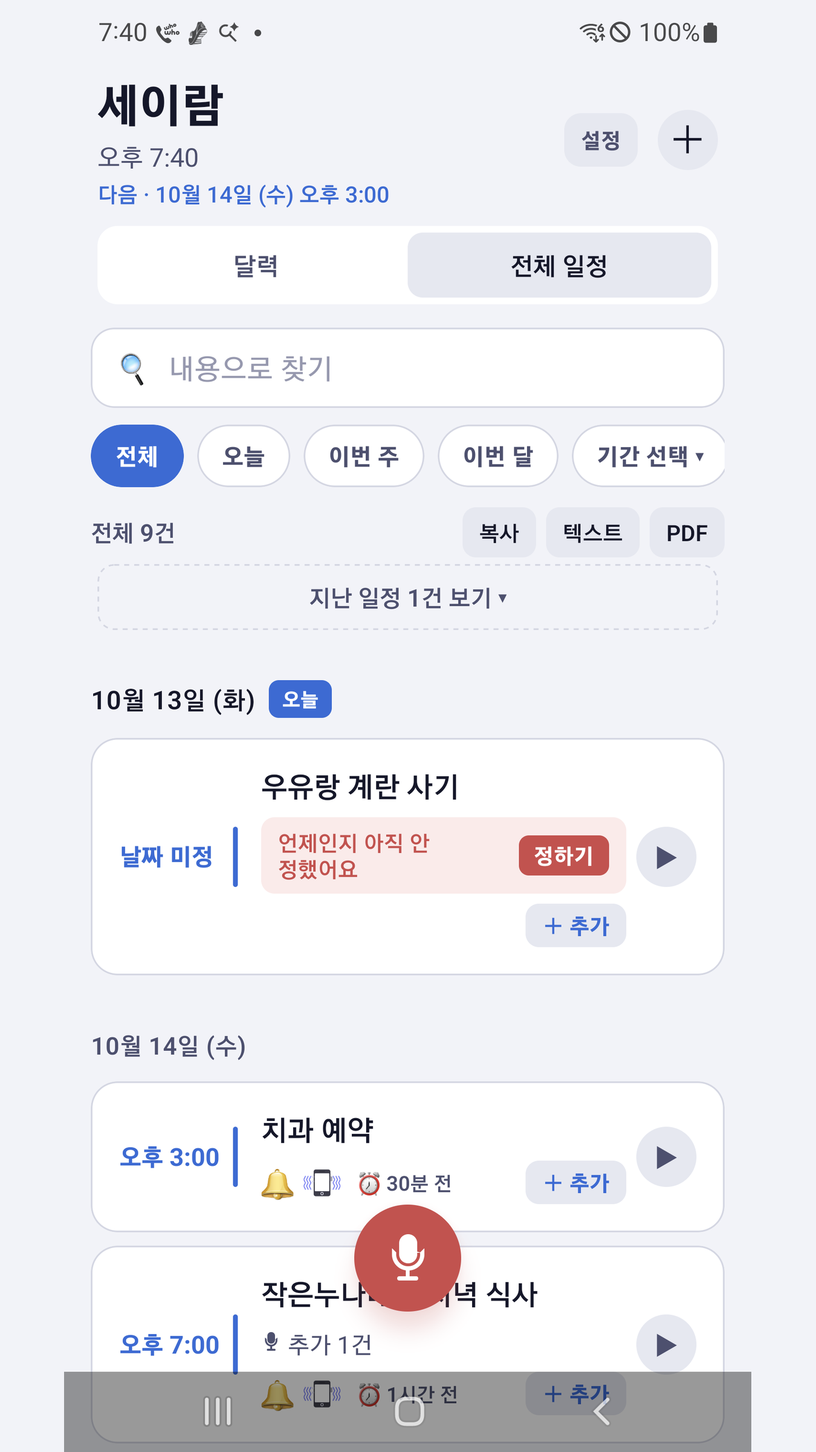
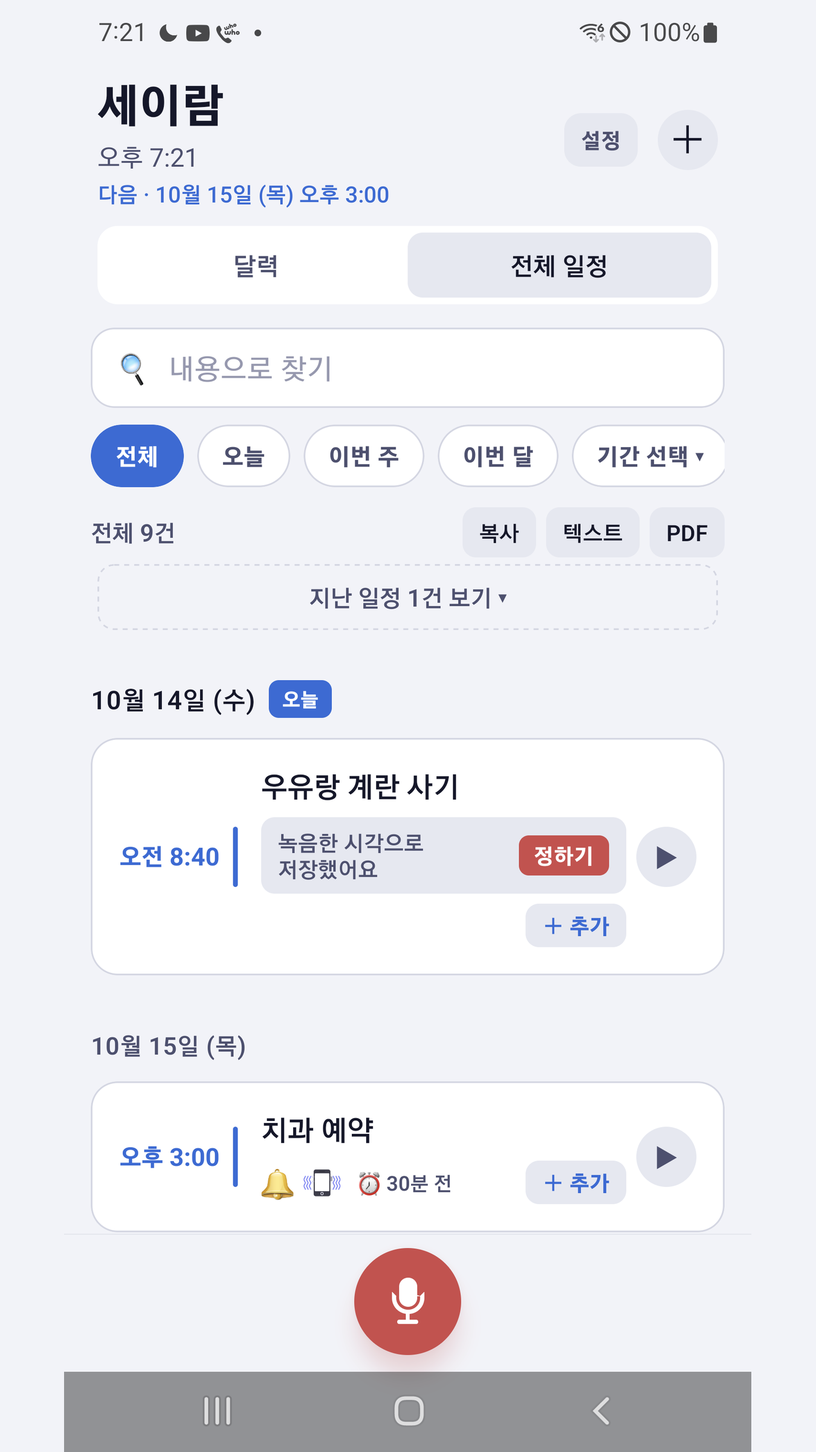
docs: Play 자료 갱신 — 스크린샷 8장 재촬영, 등록 문구 9개 언어(녹음 시각 저장·글 읽어 주기)
- 스크린샷: 말하기 막대, 녹음 시각으로 저장된 메모 카드, 목록 아래 마이크 영역 반영
- 등록 문구 9개 언어: 날짜 없이 말한 녹음 문단, 녹음 없는 일정 읽어 주기 문장 추가(모두 4,000자 이하)
- 콘솔 안내: 스크린샷 표·재촬영 방법(sayram_samples2)·10-14 기기 확인 현황

diff --git a/docs/PLAY_CONSOLE_GUIDE.md b/docs/PLAY_CONSOLE_GUIDE.md
@@ -144,14 +144,14 @@ cd android && ./gradlew bundleRelease
 
 ### 스크린샷 (9장 중 최대 8장 선택)
 
-2026-10-13 저녁, 최종 화면으로 9장 모두 다시 찍었습니다.
+2026-10-14 저녁, 최종 화면(말하기 막대, 녹음 시각으로 저장된 메모 카드, 목록 아래 마이크 영역)으로 다시 찍었습니다. 02만 10-13 촬영본입니다.
 
 | 파일 | 내용 |
 |---|---|
-| 01_list | 일정 목록(날짜 미정 메모, 알람·미리 알림 표시) |
+| 01_list | 일정 목록(녹음 시각으로 저장된 메모, 알람·미리 알림, 하루 전 알림 줄) |
 | 02_speaking | 말하는 중: "10분 전에 알려 줘"까지 인식 |
 | 03_detail_replay | 상세: 단어 구간 다시 듣기 |
-| 04_editor | 수정: 날짜·시간 휠·알람 방식·미리 알림 |
+| 04_editor | 수정: 날짜·시간 휠·알림, "눌러서 말하기", "▶ 녹음 듣기" |
 | 05_calendar_week | 주 보기 달력 |
 | 06_all_search | 전체 일정: 검색·기간·내보내기 |
 | 07_settings | 설정: 테마·글자 크기·9개 언어 |
@@ -161,7 +161,7 @@ cd android && ./gradlew bundleRelease
 - 권장 순서: 02 → 01 → 03 → 05 → 04 → 06 → 09 → 08 (07은 빼도 됩니다).
 - Play는 세로가 가로의 2배를 넘으면 거부하므로 원본 양옆에 여백을 붙여 9:16으로 만들었습니다. 내용은 자르지 않았습니다.
 - 홍보 배너는 목록 맨 아래에 있어 스크린샷에는 나오지 않습니다.
-- 다시 찍는 법: 노트의 `Download/sayram_samples` 폴더(예시 일정 9건)를 설정 › 백업 › 폴더에서 가져오기로 넣고 촬영합니다. 예시 일정의 날짜가 지나 있으면 `records.json`의 날짜를 옮겨야 합니다. 촬영 뒤에는 앱 데이터를 초기화해 예시 알람이 울리지 않게 합니다.
+- 다시 찍는 법: 노트의 `Download/sayram_samples2` 폴더(예시 일정 9건)를 설정 › 백업 › 폴더에서 가져오기로 넣고 촬영합니다. 예시 일정의 날짜가 지나 있으면 `records.json`의 날짜를 옮겨야 합니다. 촬영 뒤에는 앱 데이터를 초기화해 예시 알람이 울리지 않게 합니다.
 
 ## 9. 출시 노트
 
@@ -189,6 +189,9 @@ cd android && ./gradlew bundleRelease
 - [x] 백업 폴더에서 가져오기 (노트)
 - [x] 최종 빌드 권한 목록에 INTERNET 없음
 - [x] 9개 언어 문구 누락 0 (자동 테스트 `lib/__tests__/i18nParity.test.ts`)
+- [x] (10-14) 글 읽어 주기: 32에서 삼성 음성 엔진으로 한국어 읽기, 끝나면 ▶ 복귀
+- [x] (10-14) 말하기 막대 시작·완료, 수정 화면 ▶ 녹음 듣기, 분 휠(32분 등 5분 단위 아닌 값) 굴림 일치, 마이크 버튼이 카드를 가리지 않음 — 32
+- [ ] 아이폰에서 무음 스위치를 켠 상태·수화기 선택 후 글 읽어 주기 — 기기 확인 필요
 - [ ] 미니(iPad): 실행·화면 표시만 확인. 화면을 직접 눌러 보는 확인은 사람이 해야 함
 - [ ] 홍보 배너를 눌러 유튜브·Play 스토어가 열리는지, 후원 화면의 계좌번호 복사 — **기기 미검증**(화면에 보이는 것만 확인)
 - [ ] 폴더로 내보내기 → 다른 기기에서 가져오기 왕복

diff --git a/store-assets/listing-fr.md b/store-assets/listing-fr.md
@@ -24,8 +24,8 @@ Essayez « dîner entre amis vendredi prochain à 19h », « réunion d'équipe 
 • Vous voulez une appli légère, utilisable tout de suite, sans inscription
 
 🔁 Réécoutez exactement ce que vous avez dit
-Chaque événement conserve son enregistrement. Touchez ▶ sur une carte pour entendre votre propre voix, ou ouvrez l'écran de détail et touchez un mot pour ne réécouter que ce passage. Faites un appui long puis glissez sur les mots pour lire en boucle la partie dont vous avez besoin.
-(La conservation des enregistrements et la relecture mot par mot nécessitent Android 13 ou version ultérieure. Sur Android 12 et versions antérieures, vos paroles sont enregistrées sous forme de texte ; les événements et les alarmes fonctionnent de la même façon.)
+Chaque événement garde son enregistrement : ▶ sur une carte fait entendre votre voix, un mot touché dans le détail rejoue ce passage, un appui long glissé sur les mots lit une partie en boucle.
+(Enregistrements et relecture mot par mot : Android 13 ou ultérieur ; sur Android 12 et antérieur, vos paroles sont gardées en texte, alarmes incluses. Sans enregistrement (saisie au clavier ou Android 12 et antérieur), ▶ fait lire date, heure et contenu par la voix du téléphone, sans Internet.)
 
 ⏰ Rappels anticipés + alarme à l'heure
 Une alarme pile à l'heure du rendez-vous, c'est déjà trop tard. Choisissez 10 minutes, 30 minutes, 1 heure ou un jour avant — ou dites simplement « rappelle-moi 30 minutes avant ». À l'heure prévue, l'alarme sonne, puis sonne de nouveau 1 et 2 minutes plus tard au cas où vous l'auriez manquée. Pour chaque événement, choisissez son + vibration, son seul ou vibration seule.
@@ -33,8 +33,8 @@ Une alarme pile à l'heure du rendez-vous, c'est déjà trop tard. Choisissez 10
 📅 Calendrier et liste sur un même écran
 En haut, le calendrier par mois ou par semaine ; en dessous, les événements de la période classés par jour. Les éléments passés sont repliés pour que ce qui arrive reste en haut. Les rappels de la veille apparaissent le jour où ils sonnent.
 
-🤔 Oublié de dire quand ? Rien n'est perdu
-Dites « acheter du lait » sans date : l'enregistrement est tout de même conservé, avec la mention « Date pas encore définie ». Fixez le jour quand vous voulez.
+🤔 Pas de date ? Réunions et cours aussi
+Sans date ni heure (« acheter du lait », réunion, cours), c'est classé à l'heure du début de l'enregistrement, déjà passée : pas d'alarme. La carte affiche « Enregistré à l’heure de l’enregistrement · Définir ». À faire plus tard ? Touchez « Définir » et choisissez date et heure (réécoute possible) pour régler l'alarme. Une réunion, un cours ? Laissez tel quel.
 
 🔎 Recherche et export
 Recherchez par contenu ou filtrez par aujourd'hui, cette semaine, ce mois-ci ou la période de votre choix. Prévisualisez le résultat en texte ou en PDF, puis exportez-le.

diff --git a/store-assets/listing-de.md b/store-assets/listing-de.md
@@ -24,8 +24,8 @@ Probier „Abendessen mit Freunden nächsten Freitag um 19 Uhr“, „Teammeetin
 • du eine schlanke App möchtest, die ohne Anmeldung sofort funktioniert
 
 🔁 Hör genau, was du gesagt hast
-Jeder Termin behält seine Aufnahme. Tippe auf einer Karte auf ▶, um deine eigene Stimme zu hören, oder öffne die Detailansicht und tippe auf ein einzelnes Wort, um nur diese Stelle noch einmal abzuspielen. Halte gedrückt und ziehe über mehrere Wörter, um den gewünschten Abschnitt in Schleife zu hören.
-(Gespeicherte Aufnahmen und die Wort-Wiedergabe erfordern Android 13 oder höher. Unter Android 12 und älter wird das Gesagte als Text gespeichert; Termine und Alarme funktionieren genauso.)
+Jeder Termin behält seine Aufnahme. Tippe auf einer Karte auf ▶, um deine Stimme zu hören, oder in der Detailansicht auf ein Wort, um nur diese Stelle abzuspielen. Halte gedrückt und ziehe über Wörter, um einen Abschnitt in Schleife zu hören.
+(Aufnahmen und Wort-Wiedergabe ab Android 13. Unter Android 12 und älter wird das Gesagte als Text gespeichert; Termine und Alarme funktionieren genauso. Bei Terminen ohne Aufnahme – auch eingetippten – liest die Stimme des Handys nach ▶ Datum, Uhrzeit und Inhalt vor, ohne Internet.)
 
 ⏰ Vorab-Erinnerungen + Alarm zur Terminzeit
 Ein Alarm genau zur Terminzeit kommt schon zu spät. Wähle beliebig aus 10 Minuten, 30 Minuten, 1 Stunde oder einem Tag vorher – oder sag einfach „erinnere mich 30 Minuten vorher“. Zur eingestellten Zeit klingelt der Alarm und noch einmal 1 und 2 Minuten später, falls du ihn überhört hast. Für jeden Termin wählst du Ton + Vibration, nur Ton oder nur Vibration.
@@ -33,8 +33,8 @@ Ein Alarm genau zur Terminzeit kommt schon zu spät. Wähle beliebig aus 10 Minu
 📅 Kalender und Liste in einer Ansicht
 Oben der Monats- oder Wochenkalender, darunter die Termine dieses Zeitraums nach Tagen sortiert. Vergangene Einträge sind eingeklappt, damit das Kommende oben bleibt. Erinnerungen vom Vortag erscheinen an dem Tag, an dem sie klingeln.
 
-🤔 Vergessen zu sagen, wann? Nichts geht verloren
-Sag „Milch kaufen“ ohne Datum, und die Aufnahme bleibt trotzdem erhalten – mit dem Hinweis „Datum noch nicht festgelegt“. Leg den Tag fest, wann immer es dir passt.
+🤔 Kein Datum? Auch Besprechungen und Vorlesungen
+Ohne Datum und Uhrzeit („Milch kaufen“, eine Besprechung, eine Vorlesung) wird es zur Startzeit der Aufnahme gespeichert – die ist schon vorbei, also kein Alarm. Auf der Karte steht „Zur Aufnahmezeit gespeichert · Festlegen“. Für später tippst du auf „Festlegen“ und wählst Datum und Uhrzeit (die Aufnahme kannst du dabei nochmal hören) – dann kommt der Alarm. Mitschnitte lässt du einfach so.
 
 🔎 Suchen und exportieren
 Suche nach Inhalt oder filtere nach heute, dieser Woche, diesem Monat oder einem beliebigen Zeitraum. Sieh dir das Ergebnis als Text oder PDF in der Vorschau an und exportiere es dann.

diff --git a/store-assets/listing-ja.md b/store-assets/listing-ja.md
@@ -26,6 +26,7 @@ SayRam – 音声リマインダー
 🔁 話した内容をそのまま聞き直せます
 予定ごとに録音が残ります。カードの▶をタップすると自分の声を再生でき、詳細画面では単語をタップしてその部分だけを聞き直せます。単語を長押ししてドラッグすれば、必要な区間だけを繰り返し再生できます。
 （録音の保存と単語ごとの再生にはAndroid 13以降が必要です。Android 12以前では話した内容がテキストとして保存され、予定とアラームは同じように動作します。）
+録音のない予定（文字で入力した予定、Android 12以前で保存した予定）も、▶をタップするとスマホの音声が日時と内容を読み上げます。インターネットは使いません。
 
 ⏰ 事前リマインダー＋定刻アラーム
 約束の時刻ちょうどに鳴っても、もう間に合いません。10分前・30分前・1時間前・1日前から好きなものを選ぶか、「30分前に知らせて」と話すだけでも設定できます。設定した時刻にアラームが鳴り、聞き逃したときのために1分後と2分後にもう一度鳴ります。予定ごとに「音＋バイブ」「音のみ」「バイブのみ」を選べます。
@@ -33,8 +34,8 @@ SayRam – 音声リマインダー
 📅 カレンダーとリストをひと目で
 上に月表示・週表示のカレンダー、下にその期間の予定が日付ごとに並びます。過ぎた予定は折りたたまれ、これからの予定がいちばん上に表示されます。1日前のリマインダーは、通知が鳴る日にも表示されます。
 
-🤔 日時を言い忘れても大丈夫
-「牛乳を買う」のように日付なしで話しても、録音は「日時がまだ決まっていません」のタグ付きでそのまま残ります。都合のよいときに日付を決めるだけです。
+🤔 日時を言わなくても、会議・講義の録音もそのまま
+「牛乳を買う」のようなメモや会議・講義の録音など、日時を言わなかった場合は、録音を始めた日付と時刻で保存されます。すでに過ぎた時刻なのでアラームは設定されません。カードには「録音した時刻で保存しました · 決める」が表示されます。後でやることなら「決める」で日時を選ぶとアラームが設定され、会議・講義のような記録ならそのままで大丈夫です。日時を決める画面では、録音を聞き直しながら選べます。
 
 🔎 検索とエクスポート
 内容で検索したり、今日・今週・今月・任意の期間で絞り込んだりできます。結果をテキストまたはPDFでプレビューしてからエクスポートできます。

diff --git a/store-assets/listing-ko.md b/store-assets/listing-ko.md
@@ -27,6 +27,7 @@ SayRam 세이람 – 말로 하는 알람·일정
 🔁 내가 한 말, 그대로 다시 들어요
 일정마다 녹음이 함께 저장돼요. 카드의 ▶를 누르면 내 목소리가 그대로 나오고, 상세 화면에서는 단어를 눌러 그 부분만 다시 들을 수 있어요. 단어를 길게 누른 채 끌면 원하는 구간만 반복해서 들을 수 있습니다.
 (녹음 저장과 구간 재생은 Android 13 이상에서 지원됩니다. Android 12 이하에서는 말한 내용이 글로 저장되고 일정·알람은 똑같이 동작합니다.)
+녹음이 없는 일정(글자로 입력한 일정, Android 12 이하에서 저장한 일정)도 ▶를 누르면 폰의 음성이 날짜·시간과 내용을 읽어 줘요. 인터넷은 쓰지 않습니다.
 
 ⏰ 미리 알림 + 정각 알람
 약속 시각에 딱 맞춰 울리면 늦죠. 10분 전·30분 전·1시간 전·하루 전 중에서 여러 개를 골라 미리 알림을 받을 수 있어요. "30분 전에 알려줘"라고 말로 해도 됩니다. 정각에는 알람이 울리고, 못 들었을 때를 위해 1분·2분 뒤에 한 번씩 더 울려요. 일정마다 소리+진동 / 소리 / 진동을 고를 수 있습니다.
@@ -34,8 +35,8 @@ SayRam 세이람 – 말로 하는 알람·일정
 📅 달력과 한눈에 보는 일정
 월 보기·주 보기 달력 아래로 그 기간의 일정이 날짜별로 정리돼요. 지난 일정은 접혀 있어서 앞으로 올 일정이 맨 위에 보입니다. 하루 전 미리 알림은 전날 달력에도 표시돼요.
 
-🤔 날짜를 말하지 않았어도 버리지 않아요
-"우유 사기"처럼 날짜 없이 말해도 녹음은 그대로 남아요. "언제인지 아직 안 정했어요" 꼬리표가 붙어 있다가, 편할 때 날짜만 골라 주면 됩니다.
+🤔 날짜를 말하지 않아도, 회의·강의 녹음도 그대로
+"우유 사기" 같은 메모나 회의·강의 녹음처럼 날짜·시간을 말하지 않으면, 녹음을 시작한 날짜와 시각으로 저장돼요. 이미 지난 시각이라 알람은 걸리지 않습니다. 카드에는 "녹음한 시각으로 저장했어요 · 정하기"가 보여요. 나중에 할 일이면 "정하기"로 날짜·시간을 고르면 알람이 걸리고, 회의·강의 같은 기록이면 그대로 두면 됩니다. 날짜를 정하는 화면에서 녹음을 다시 들으며 고를 수도 있어요.
 
 🔎 찾기 · 내보내기
 내용으로 검색하고, 오늘·이번 주·이번 달 또는 원하는 기간만 골라 볼 수 있어요. 고른 일정은 텍스트나 PDF로 미리보기한 뒤 내보낼 수 있습니다.

diff --git a/store-assets/listing-pt.md b/store-assets/listing-pt.md
@@ -26,6 +26,7 @@ Experimente "jantar com os amigos na sexta que vem às sete", "reunião da equip
 🔁 Ouça exatamente o que você disse
 Cada compromisso guarda a sua gravação. Toque em ▶ no cartão para ouvir a sua própria voz, ou abra a tela de detalhes e toque em uma palavra para repetir só aquele trecho. Toque e segure, depois arraste pelas palavras, para repetir em loop a parte de que você precisa.
 (As gravações salvas e a repetição por palavra exigem Android 13 ou superior. No Android 12 e anteriores, o que você fala é salvo como texto, e os compromissos e alarmes funcionam do mesmo jeito.)
+Compromissos sem gravação (digitados ou salvos no Android 12 e anteriores) também podem ser ouvidos: toque em ▶ e a voz do celular lê a data, a hora e o conteúdo, sem usar a internet.
 
 ⏰ Lembretes antecipados + alarme na hora certa
 Um alarme bem na hora do compromisso já é tarde demais. Escolha entre 10 minutos, 30 minutos, 1 hora ou um dia antes — ou simplesmente diga "me lembre trinta minutos antes". No horário definido o alarme toca, e toca de novo 1 e 2 minutos depois, caso você não tenha ouvido. Em cada compromisso, escolha som + vibração, só som ou só vibração.
@@ -33,8 +34,8 @@ Um alarme bem na hora do compromisso já é tarde demais. Escolha entre 10 minut
 📅 Calendário e lista em uma única tela
 Calendário mensal ou semanal em cima e, embaixo, os compromissos do período organizados por dia. Os itens passados ficam recolhidos para que o que vem pela frente fique no topo. Os lembretes de um dia antes aparecem no dia em que tocam.
 
-🤔 Esqueceu de dizer quando? Nada se perde
-Diga "comprar leite" sem data e a gravação fica guardada mesmo assim, marcada como "Data ainda não definida". Defina o dia quando quiser.
+🤔 Sem data? Reuniões e aulas também
+Se você não disser data nem hora ("comprar leite", uma reunião, uma aula), fica salvo com a data e o horário em que você começou a gravar; como já passou, não há alarme. O cartão mostra "Salvo no horário em que você gravou · Definir". Se for algo para depois, toque em "Definir" e escolha data e hora (dá para ouvir a gravação de novo enquanto escolhe) para receber o alarme. Se for o registro de uma reunião ou aula, é só deixar como está.
 
 🔎 Busca e exportação
 Busque pelo conteúdo ou filtre por hoje, esta semana, este mês ou qualquer período. Visualize o resultado em texto ou PDF e depois exporte.

diff --git a/store-assets/listing-es.md b/store-assets/listing-es.md
@@ -26,6 +26,7 @@ Prueba con «cena con amigos el viernes que viene a las siete», «reunión de e
 🔁 Escucha exactamente lo que dijiste
 Cada evento conserva su grabación. Toca ▶ en una tarjeta para oír tu propia voz, o abre la pantalla de detalle y toca una palabra para volver a oír solo esa parte. Mantén pulsado y arrastra sobre las palabras para repetir en bucle el fragmento que necesites.
 (Las grabaciones guardadas y la reproducción por palabras requieren Android 13 o posterior. En Android 12 y versiones anteriores, lo que dices se guarda como texto, y los eventos y las alarmas funcionan igual.)
+Los eventos sin grabación (tecleados o guardados en Android 12 o anterior) también se escuchan: con ▶, la voz del teléfono lee la fecha, la hora y el contenido, sin internet.
 
 ⏰ Avisos anticipados + alarma a la hora exacta
 Una alarma justo a la hora de la cita ya llega tarde. Elige entre 10 minutos, 30 minutos, 1 hora o un día antes, o simplemente di «avísame treinta minutos antes». A la hora fijada suena la alarma, y vuelve a sonar 1 y 2 minutos después por si no la oíste. En cada evento puedes elegir sonido + vibración, solo sonido o solo vibración.
@@ -33,8 +34,8 @@ Una alarma justo a la hora de la cita ya llega tarde. Elige entre 10 minutos, 30
 📅 Calendario y lista en una sola vista
 Arriba, el calendario mensual o semanal; debajo, los eventos de ese periodo ordenados por día. Los eventos pasados se pliegan para que lo próximo quede siempre arriba. Los avisos del día anterior aparecen en el día en que suenan.
 
-🤔 ¿Olvidaste decir cuándo? No se pierde nada
-Di «comprar leche» sin fecha y la grabación se conserva igualmente, con la etiqueta «Fecha aún sin definir». Ponle fecha cuando quieras.
+🤔 ¿Sin fecha? Reuniones y clases también
+Si no dices fecha ni hora («comprar leche», una reunión, una clase), se guarda con la fecha y hora en que empezaste a grabar; como ya pasó, no hay alarma. La tarjeta muestra «Guardado a la hora en que grabaste · Definir». Si es para más adelante, toca «Definir» y elige fecha y hora (puedes reescuchar la grabación) para tener alarma. Si es una reunión o clase, déjalo así.
 
 🔎 Buscar y exportar
 Busca por contenido o filtra por hoy, esta semana, este mes o cualquier periodo. Previsualiza el resultado como texto o PDF y luego expórtalo.

diff --git a/store-assets/listing-en.md b/store-assets/listing-en.md
@@ -26,6 +26,7 @@ Try "dinner with friends next Friday at 7", "team meeting in 3 days at 10am", or
 🔁 Hear exactly what you said
 Every schedule keeps its recording. Tap ▶ on a card to hear your own voice, or open the detail screen and tap a single word to replay just that part. Long-press and drag across words to loop the section you need.
 (Saved recordings and word replay need Android 13 or later. On Android 12 and below your words are saved as text, and schedules and alarms work the same.)
+Schedules without a recording (ones you typed in, or ones saved on Android 12 and below) can be heard too: tap ▶ and your phone's voice reads out the date, time and content, without using the internet.
 
 ⏰ Early reminders + an on-time alarm
 An alarm at the exact appointment time is already too late. Choose any of 10 minutes, 30 minutes, 1 hour or a day before — or just say "remind me 30 minutes before". At the set time the alarm rings, and rings again 1 and 2 minutes later in case you missed it. Pick sound + vibration, sound only, or vibration only for each schedule.
@@ -33,8 +34,8 @@ An alarm at the exact appointment time is already too late. Choose any of 10 min
 📅 Calendar and list in one view
 Month or week calendar on top, that period's schedules listed by day below. Past items are folded away so what's coming up stays on top. Day-before reminders show up on the day they ring.
 
-🤔 Forgot to say when? Nothing is lost
-Say "buy milk" with no date and the recording is still kept, tagged "Date not set yet". Set the day whenever you're ready.
+🤔 No date? Meetings and lectures too
+If you don't say a date or time — a quick note like "buy milk", or a whole meeting or lecture — it's saved at the date and time you started recording. That time has already passed, so no alarm is set. The card shows "Saved at the time you recorded · Set". If it's something to do later, tap "Set" and pick a date and time to get an alarm. If it's a record of a meeting or lecture, just leave it as it is. You can replay the recording on that same screen while you choose the date.
 
 🔎 Search and export
 Search by content, or filter by today, this week, this month or any period. Preview the result as text or PDF, then export it.

diff --git a/store-assets/listing-zh-Hant.md b/store-assets/listing-zh-Hant.md
@@ -26,6 +26,7 @@ SayRam – 語音提醒與行程
 🔁 原話原音，隨時重聽
 每筆行程都會保留錄音。點卡片上的 ▶ 就能聽到自己的聲音；在詳細畫面點某個詞，只重播那一段。長按並在詞語上拖曳，可循環播放需要的片段。
 （儲存錄音和逐詞重播需要 Android 13 以上版本。在 Android 12 以下版本，你說的內容會儲存為文字，行程和鬧鐘照常運作。）
+沒有錄音的行程（用文字輸入的行程、在 Android 12 以下版本儲存的行程）點 ▶ 時，也會由手機的語音朗讀日期、時間和內容，不使用網路。
 
 ⏰ 提前提醒 + 準時鬧鐘
 到了約定時間才響，就已經來不及了。可任選提前 10 分鐘、30 分鐘、1 小時或 1 天提醒，也可以直接說「提前三十分鐘提醒我」。到了設定時間鬧鐘會響，並在 1 分鐘和 2 分鐘後各再響一次，以免錯過。每筆行程都可選擇聲音+震動、僅聲音或僅震動。
@@ -33,8 +34,8 @@ SayRam – 語音提醒與行程
 📅 行事曆與清單一目了然
 上方是月檢視或週檢視行事曆，下方依日期列出該期間的行程。過去的行程會收合起來，即將到來的安排永遠在最上面。提前一天的提醒會顯示在它響起的那一天。
 
-🤔 忘了說時間？內容不會不見
-只說「買牛奶」而沒說日期，錄音照樣保留，並標記為「還沒決定時間」。等你方便時再選日期就好。
+🤔 沒說時間也沒關係，會議、講座錄音也照樣保存
+像「買牛奶」這樣的備忘，或會議、講座的錄音，如果沒有說日期和時間，會依開始錄音的日期和時間儲存。因為時間已經過去，所以不會設定鬧鐘。卡片上會顯示「已依錄音時間儲存 · 設定」。如果是之後要做的事，點「設定」選好日期和時間就會設定鬧鐘；如果是會議、講座這類紀錄，維持原樣就好。在設定日期的畫面上，可以一邊重聽錄音一邊選擇。
 
 🔎 搜尋與匯出
 依內容搜尋，或依今天、本週、本月或任意期間篩選。可先以文字或 PDF 預覽結果，再匯出。

diff --git a/store-assets/listing-zh-Hans.md b/store-assets/listing-zh-Hans.md
@@ -26,6 +26,7 @@ SayRam – 语音提醒与日程
 🔁 原话原声，随时重听
 每条日程都保留录音。点卡片上的 ▶ 就能听到自己的声音；在详情页点某个词，只重播那一段。长按并在词语上拖动，可循环播放需要的片段。
 （保存录音和按词重播需要 Android 13 或更高版本。在 Android 12 及更低版本上，你说的内容会保存为文字，日程和闹钟照常使用。）
+没有录音的日程（用文字输入的日程、在 Android 12 及更低版本上保存的日程）点 ▶ 时，也会由手机的语音朗读日期、时间和内容，不使用网络。
 
 ⏰ 提前提醒 + 准点闹钟
 到了约定时间才响，就已经来不及了。可任选提前 10 分钟、30 分钟、1 小时或 1 天提醒，也可以直接说“提前三十分钟提醒我”。到了设定时间闹钟响起，并在 1 分钟和 2 分钟后各再响一次，以防错过。每条日程都可选择声音+振动、仅声音或仅振动。
@@ -33,8 +34,8 @@ SayRam – 语音提醒与日程
 📅 日历与列表一屏呈现
 上方是月视图或周视图日历，下方按日期列出该时段的日程。过去的日程会折叠起来，即将到来的安排始终在最上面。提前一天的提醒会显示在它响起的那一天。
 
-🤔 忘了说时间？内容不会丢
-只说“买牛奶”而没说日期，录音照样保留，并标记为“还没定好时间”。等你方便时再定日期即可。
+🤔 没说时间也行，会议、讲座录音也照样保存
+像“买牛奶”这样的备忘，或会议、讲座的录音，如果没有说日期和时间，会按开始录音的日期和时间保存。因为时间已经过去，所以不会设闹钟。卡片上会显示“已按录音时间保存 · 设定”。如果是之后要做的事，点“设定”选好日期和时间就会设闹钟；如果是会议、讲座这类记录，保持原样即可。在设定日期的页面上，可以边重听录音边选择。
 
 🔎 搜索与导出
 按内容搜索，或按今天、本周、本月或任意时段筛选。可先以文本或 PDF 预览结果，再导出。
